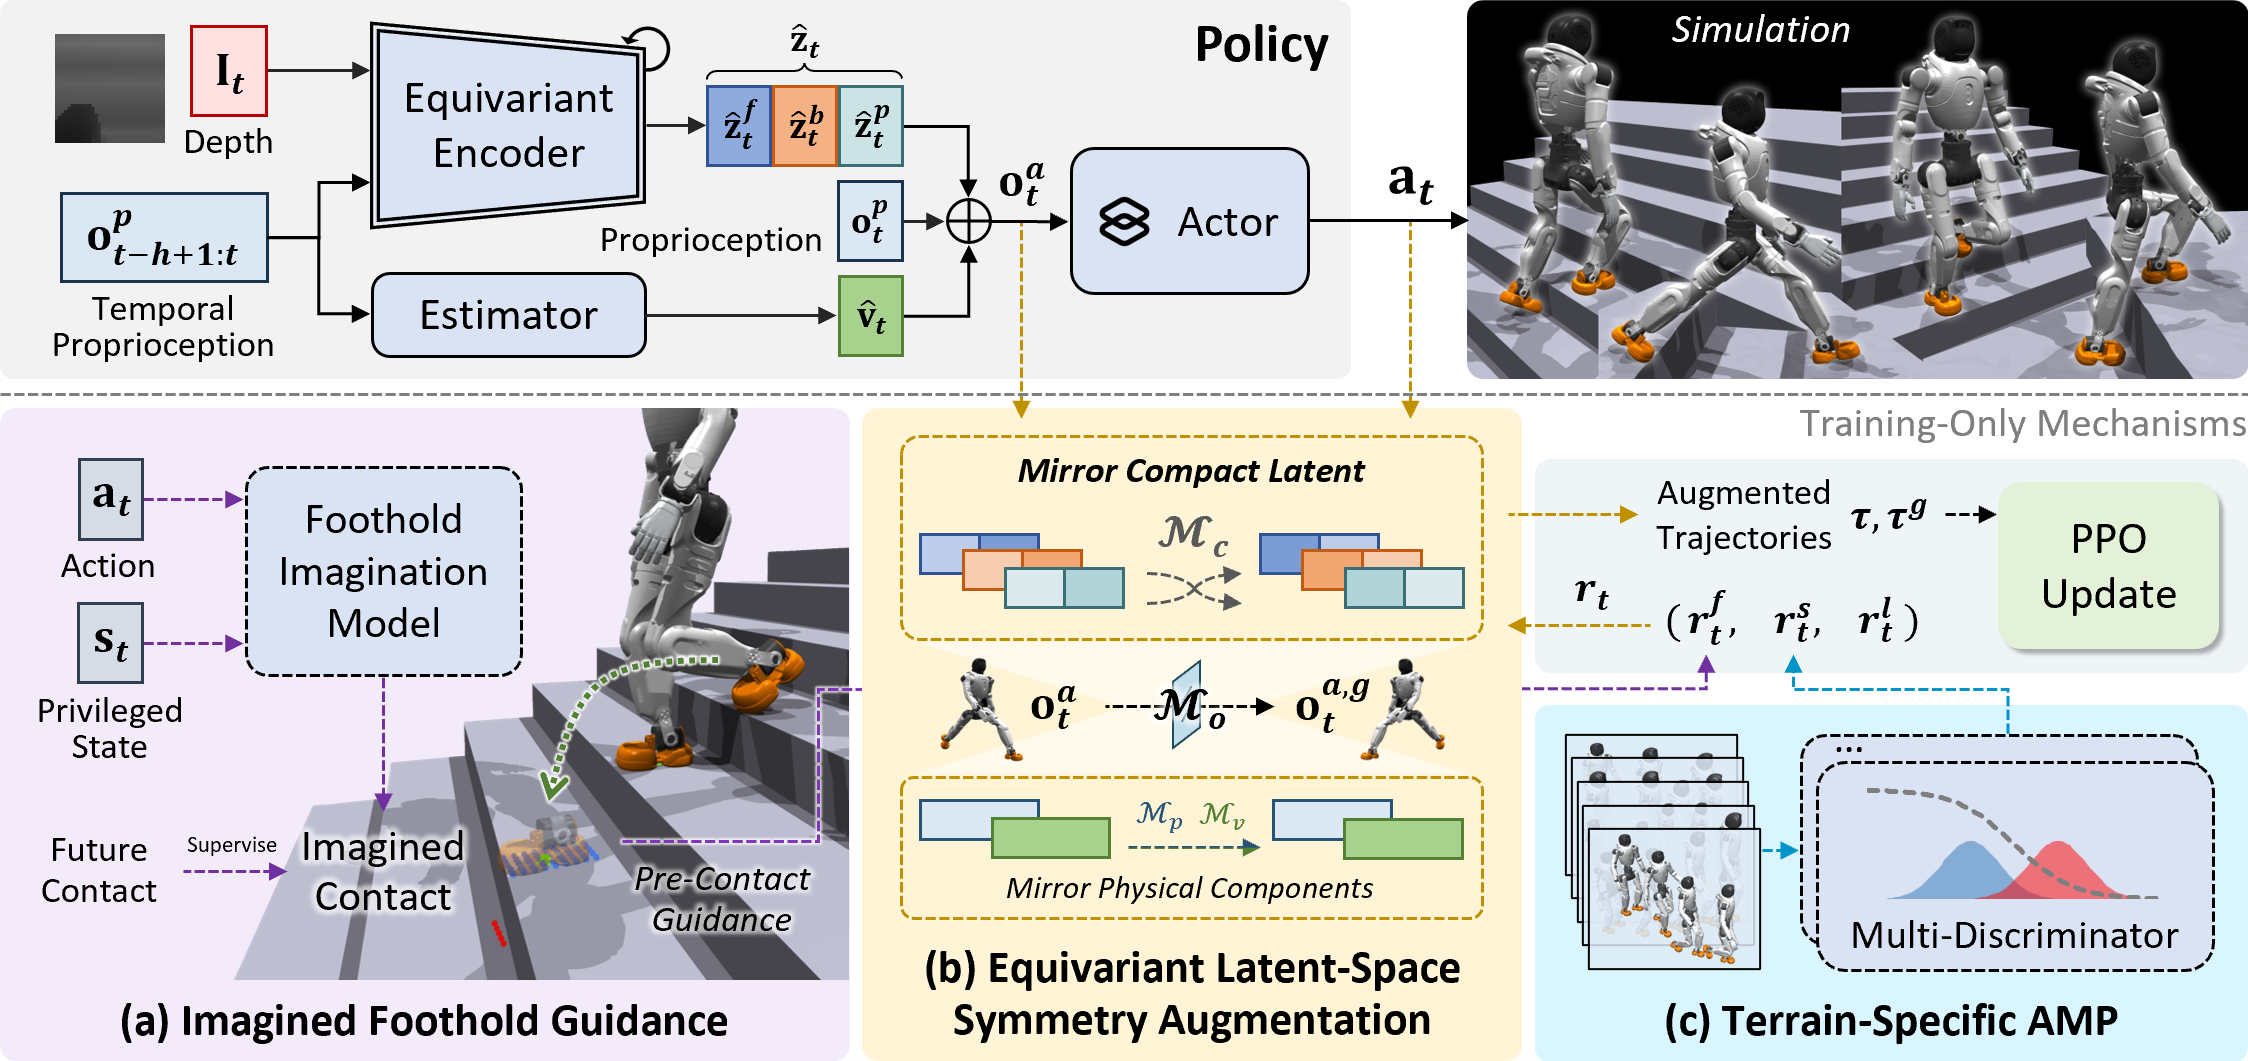
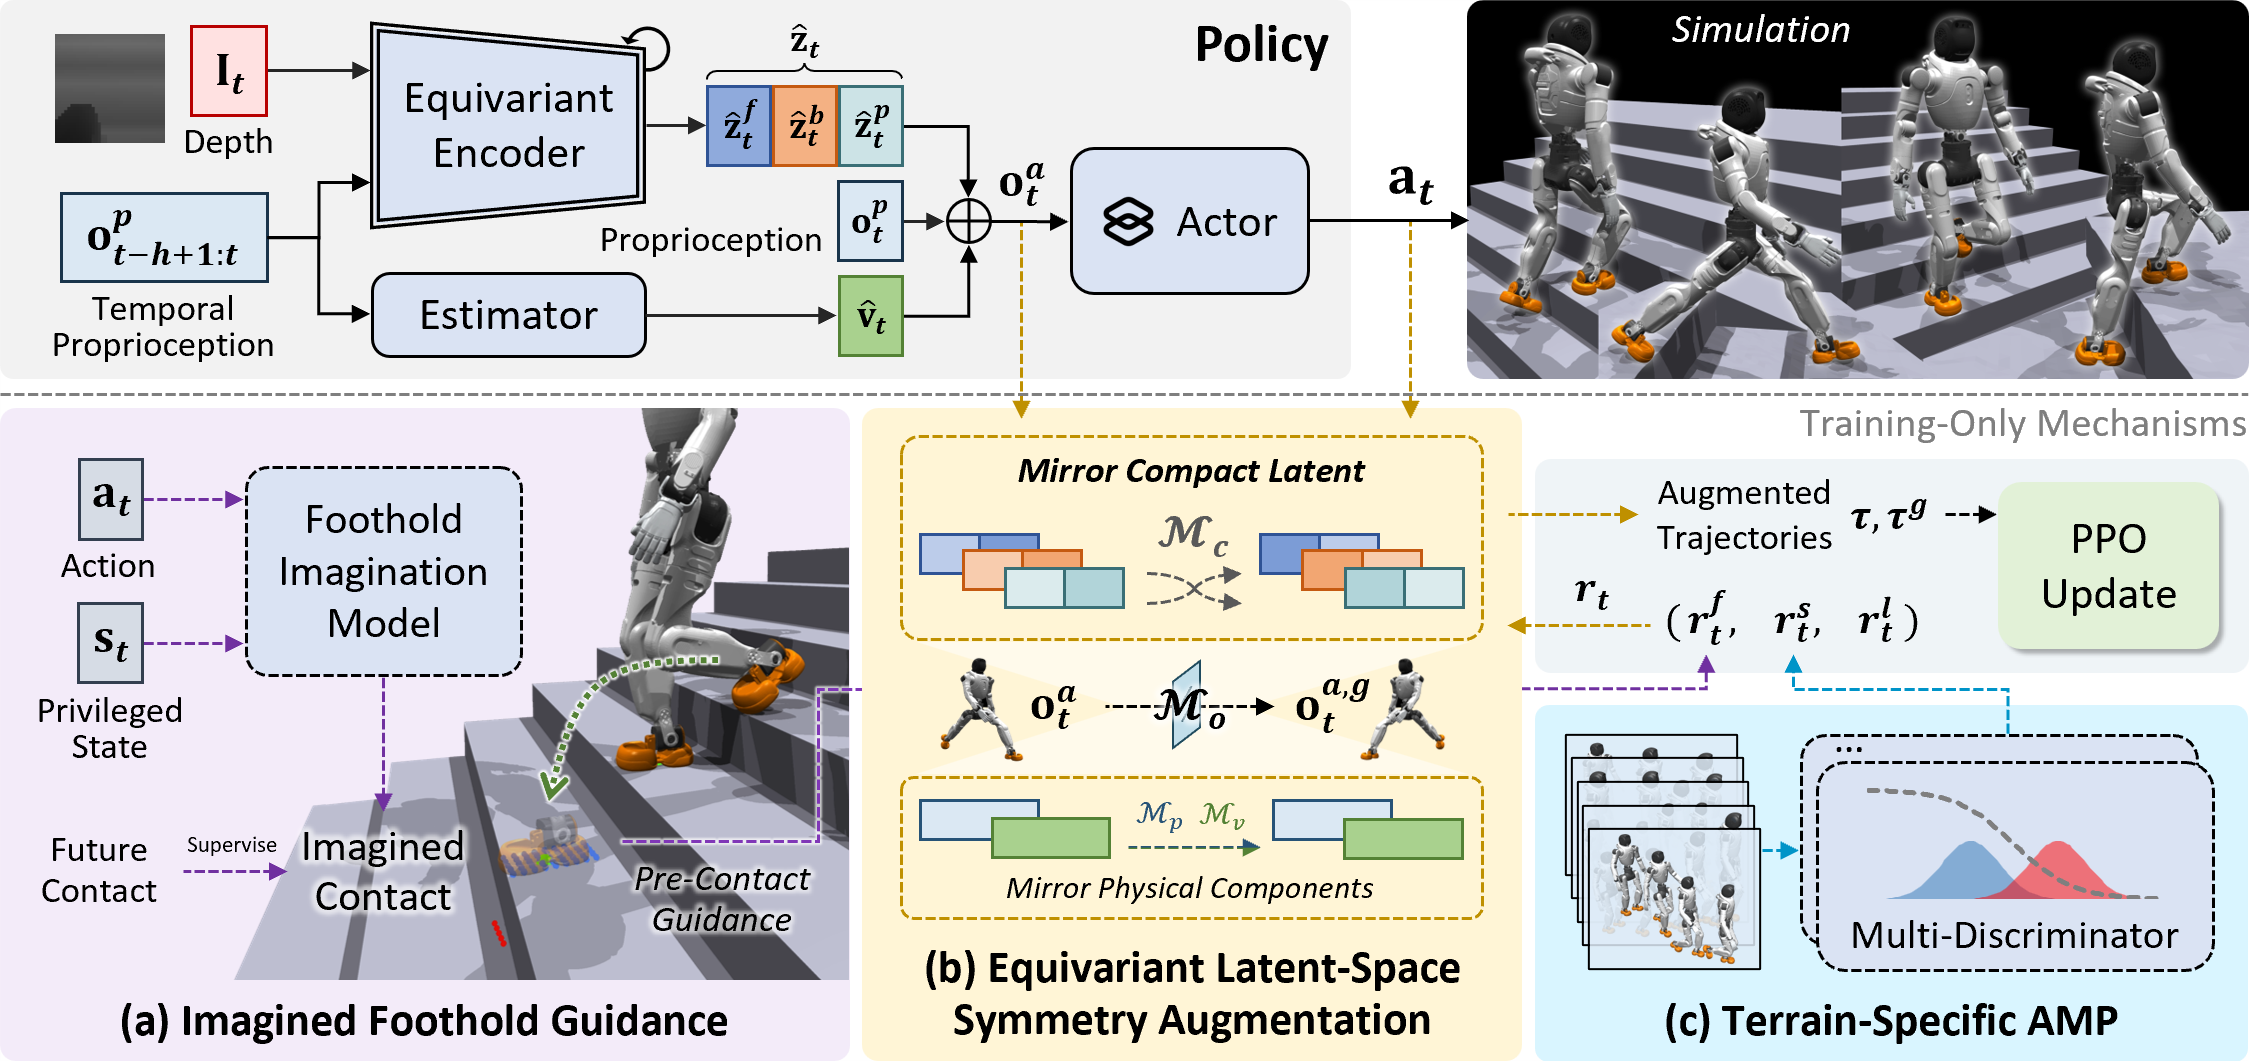
修改了index.html，删除了关于“More Works Dropdown”的相关代码和样式，并更新了论文摘要部分的内容和格式。

diff --git a/index.html b/index.html
@@ -141,7 +141,7 @@
                   </a>
                 </span>
                 <span class="link-block">
-                  <a href="#"
+                  <a href="https://youtu.be/thCaJvXeVTg"
                   class="external-link button is-normal is-rounded is-dark">
                     <span class="icon"><i class="fab fa-youtube"></i></span>
                     <span>YouTube</span>
@@ -184,7 +184,7 @@
     <div class="container">
       <div class="columns is-centered">
         <div class="column is-full-width is-centered has-text-centered">
-          <div style="max-width:1152px; margin:0 auto;">
+          <div style="max-width:1080px; margin:0 auto;">
             <div class="publication-video">
             <iframe src="https://www.youtube.com/embed/thCaJvXeVTg" title="3 Hours of Amazing Nature Scenery &amp; Relaxing Music" frameborder="0" allow="accelerometer; autoplay; clipboard-write; encrypted-media; gyroscope; picture-in-picture; web-share" referrerpolicy="strict-origin-when-cross-origin" allowfullscreen></iframe>
           </div>
@@ -195,6 +195,34 @@
   </section>
   <!-- End teaser video -->
 
+  <!-- Paper abstract -->
+  <section class="section hero">
+    <div class="container is-max-desktop content" style="max-width:1080px;">
+      <h2 class="title is-3 has-text-centered">Abstract</h2>
+      <div class="has-text-centered" style="margin-bottom: 1.5rem;">
+        <img src="static/images/Overview.png" alt="SSR Overview" style="max-width: 100%; height: auto;">
+      </div>
+      <div class="content has-text-justified">
+        <p style="line-height: 1.9;">
+          Extending humanoid traversal to open-world human environments is essential for real-world
+          deployment but remains challenging. The robot must use vision to ensure safe and reliable
+          foot placement on heterogeneous terrain under highly dynamic motion, while producing
+          coordinated, natural whole-body behaviors. We propose <strong>SSR</strong>, an efficient end-to-end
+          framework for egocentric vision-based humanoid traversal that jointly learns these
+          capabilities. SSR introduces <em style="color: #7030A0;">imagined foothold guidance</em>, which learns to model
+          forthcoming swing-foot contacts and support to guide pre-touchdown swings toward stable
+          regions, reducing edge slips. It further employs a compact <em style="color: #BF9000;">equivariant latent-space
+          symmetry augmentation</em> to efficiently induce bilateral coordination under high-dimensional
+          visual observations, together with <em style="color: #0094C8;">terrain-specific multi-discriminator motion priors</em>
+          that preserve human-like behavior across scenes. Extensive experiments show that SSR
+          achieves safe, stable, and high-quality locomotion on diverse real-world terrains, including
+          stairs with varied structures and extreme challenges such as wide gaps and high platforms,
+          while enabling reliable long-horizon traversal in open outdoor environments.
+        </p>
+      </div>
+    </div>
+  </section>
+  <!-- End paper abstract -->
 
   <!-- Video sections -->
 
@@ -456,45 +484,9 @@
   </section>
   <!-- End video sections -->
 
-
-  <!-- Paper abstract -->
-  <section class="section hero">
-    <div class="container is-max-desktop content">
-      <h2 class="title is-3 has-text-centered">Abstract</h2>
-      <div class="has-text-centered" style="margin-bottom: 1.5rem;">
-        <img src="static/images/Overview.png" alt="SSR Overview" style="max-width: 100%; height: auto;">
-      </div>
-      <div class="content has-text-justified">
-        <p style="line-height: 1.9;">
-          Extending humanoid traversal to open-world human environments is essential for real-world
-          deployment, yet remains challenging. The robot must rely on egocentric vision to achieve safe
-          and reliable foot placement on heterogeneous terrain under highly dynamic motion, while
-          maintaining coordinated and natural whole-body behaviors.
-        </p>
-        <p style="line-height: 1.9;">
-          To better address this problem, we propose <strong>SSR</strong>, an efficient end-to-end framework for
-          egocentric vision-based humanoid traversal. SSR introduces <b>imagined foothold guidance</b> to
-          model forthcoming swing-foot contacts and support regions, reducing edge slips by guiding
-          pre-touchdown swings toward stable areas. It further combines compact
-          <b>equivariant latent-space symmetry augmentation</b> with
-          <b>terrain-specific multi-discriminator motion priors</b> to improve bilateral coordination and
-          preserve human-like behaviors across diverse scenes.
-        </p>
-        <p style="line-height: 1.9;">
-          Extensive experiments show that SSR transfers safe, stable, and high-quality traversal to
-          diverse real-world terrains, including stairs with varied structures, wide gaps, and high
-          platforms. The learned policy further enables reliable long-horizon traversal in open outdoor
-          environments, demonstrating robust generalization beyond controlled laboratory settings.
-        </p>
-      </div>
-    </div>
-  </section>
-  <!-- End paper abstract -->
-
-
   <!-- BibTex citation -->
   <section class="section" id="BibTeX">
-    <div class="container is-max-desktop content">
+    <div class="container is-max-desktop content" style="max-width:1080px;">
       <div class="bibtex-header">
         <h2 class="title">BibTeX</h2>
         <button class="copy-bibtex-btn" onclick="copyBibTeX()" title="Copy BibTeX to clipboard">

diff --git a/static/css/index.css b/static/css/index.css
@@ -487,152 +487,6 @@ code {
   visibility: visible;
 }
 
-
-/* More Works Dropdown */
-.more-works-container {
-  position: fixed;
-  top: 2rem;
-  right: 2rem;
-  z-index: 1000;
-}
-
-.more-works-btn {
-  background: var(--background-primary);
-  color: var(--text-primary);
-  border: 2px solid var(--border-color);
-  border-radius: var(--border-radius-lg);
-  padding: 0.75rem 1.25rem;
-  font-weight: 600;
-  font-size: 0.9rem;
-  box-shadow: var(--shadow-md);
-  transition: var(--transition);
-  cursor: pointer;
-  text-decoration: none;
-  display: inline-flex;
-  align-items: center;
-  gap: 0.5rem;
-  font-family: 'Noto Sans', sans-serif;
-}
-
-.more-works-btn:hover {
-  transform: translateY(-2px);
-  box-shadow: var(--shadow-lg);
-  background: var(--background-secondary);
-  border-color: #363636;
-}
-
-.more-works-btn .dropdown-arrow {
-  transition: var(--transition);
-  font-size: 0.8rem;
-}
-
-.more-works-btn.active .dropdown-arrow {
-  transform: rotate(180deg);
-}
-
-.more-works-dropdown {
-  position: absolute;
-  top: calc(100% + 0.5rem);
-  right: 0;
-  width: 400px;
-  max-width: 90vw;
-  background: var(--background-primary);
-  border: 1px solid var(--border-color);
-  border-radius: var(--border-radius-lg);
-  box-shadow: var(--shadow-xl);
-  opacity: 0;
-  visibility: hidden;
-  transform: translateY(-10px);
-  transition: var(--transition);
-  max-height: 70vh;
-  overflow-y: auto;
-}
-
-.more-works-dropdown.show {
-  opacity: 1;
-  visibility: visible;
-  transform: translateY(0);
-}
-
-.dropdown-header {
-  display: flex;
-  justify-content: space-between;
-  align-items: center;
-  padding: 1.5rem 1.5rem 1rem;
-  border-bottom: 1px solid var(--border-color);
-}
-
-.dropdown-header h4 {
-  margin: 0;
-  font-size: 1.1rem;
-  font-weight: 700;
-  color: var(--text-primary);
-}
-
-.close-btn {
-  background: none;
-  border: none;
-  color: var(--text-secondary);
-  cursor: pointer;
-  padding: 0.5rem;
-  border-radius: var(--border-radius);
-  transition: var(--transition);
-}
-
-.close-btn:hover {
-  background: var(--background-accent);
-  color: var(--text-primary);
-}
-
-.works-list {
-  padding: 1rem;
-}
-
-.work-item {
-  display: flex;
-  align-items: flex-start;
-  justify-content: space-between;
-  padding: 1rem;
-  border-radius: var(--border-radius);
-  text-decoration: none;
-  color: inherit;
-  transition: var(--transition);
-  margin-bottom: 0.5rem;
-}
-
-.work-item:hover {
-  background: var(--background-accent);
-  transform: translateX(4px);
-}
-
-.work-info h5 {
-  margin: 0 0 0.5rem 0;
-  font-size: 1rem;
-  font-weight: 500;
-  color: var(--text-primary);
-}
-
-.work-info p {
-  margin: 0 0 0.5rem 0;
-  font-size: 0.9rem;
-  color: var(--text-secondary);
-  line-height: 1.4;
-}
-
-.work-venue {
-  font-size: 0.8rem;
-  color: var(--text-light);
-  font-style: italic;
-}
-
-.work-item .fas {
-  color: var(--text-light);
-  font-size: 0.9rem;
-  margin-top: 0.2rem;
-  flex-shrink: 0;
-}
-
-
 /* Mobile Responsive Improvements */
 @media screen and (max-width: 768px) {
   .hero-body {
@@ -659,24 +513,6 @@ code {
     padding: 0.75rem 1rem !important;
   }
   
-  .more-works-container {
-    bottom: 2rem;
-    right: 1rem;
-    top: auto;
-  }
-  
-  .more-works-btn {
-    padding: 0.6rem 1rem;
-    font-size: 0.8rem;
-  }
-  
-  .more-works-dropdown {
-    width: calc(100vw - 2rem);
-    right: -1rem;
-    bottom: calc(100% + 0.5rem);
-    top: auto;
-  }
-  
   .results-carousel .item {
     margin: 0.5rem;
     padding: 1rem;
@@ -698,26 +534,6 @@ code {
   
   .hero-body {
     padding: 1.5rem 0.75rem;
-  }
-  
-  .more-works-container {
-    position: fixed;
-    bottom: 2rem;
-    right: 1rem;
-    z-index: 1000;
-  }
-  
-  .more-works-btn {
-    padding: 0.5rem 0.75rem;
-    font-size: 0.75rem;
-  }
-  
-  .more-works-dropdown {
-    position: absolute;
-    bottom: calc(100% + 0.5rem);
-    right: 0;
-    width: calc(100vw - 2rem);
-    max-width: 90vw;
   }
   
   .link-block {
@@ -760,7 +576,6 @@ code {
 
 /* Improved focus states for accessibility */
 .button:focus,
-.related-works-btn:focus,
 a:focus {
   outline: 2px solid #363636;
   outline-offset: 2px;
@@ -769,10 +584,6 @@ a:focus {
 
 /* Print styles */
 @media print {
-  .more-works-container {
-    display: none;
-  }
-  
   .hero, .section {
     animation: none;
   }

diff --git a/static/js/index.js b/static/js/index.js
@@ -1,41 +1,5 @@
 window.HELP_IMPROVE_VIDEOJS = false;
 
-// More Works Dropdown Functionality
-function toggleMoreWorks() {
-    const dropdown = document.getElementById('moreWorksDropdown');
-    const button = document.querySelector('.more-works-btn');
-    
-    if (dropdown.classList.contains('show')) {
-        dropdown.classList.remove('show');
-        button.classList.remove('active');
-    } else {
-        dropdown.classList.add('show');
-        button.classList.add('active');
-    }
-}
-
-// Close dropdown when clicking outside
-document.addEventListener('click', function(event) {
-    const container = document.querySelector('.more-works-container');
-    const dropdown = document.getElementById('moreWorksDropdown');
-    const button = document.querySelector('.more-works-btn');
-    
-    if (container && !container.contains(event.target)) {
-        dropdown.classList.remove('show');
-        button.classList.remove('active');
-    }
-});
-
-// Close dropdown on escape key
-document.addEventListener('keydown', function(event) {
-    if (event.key === 'Escape') {
-        const dropdown = document.getElementById('moreWorksDropdown');
-        const button = document.querySelector('.more-works-btn');
-        dropdown.classList.remove('show');
-        button.classList.remove('active');
-    }
-});
-
 // Copy BibTeX to clipboard
 function copyBibTeX() {
     const bibtexElement = document.getElementById('bibtex-code');
